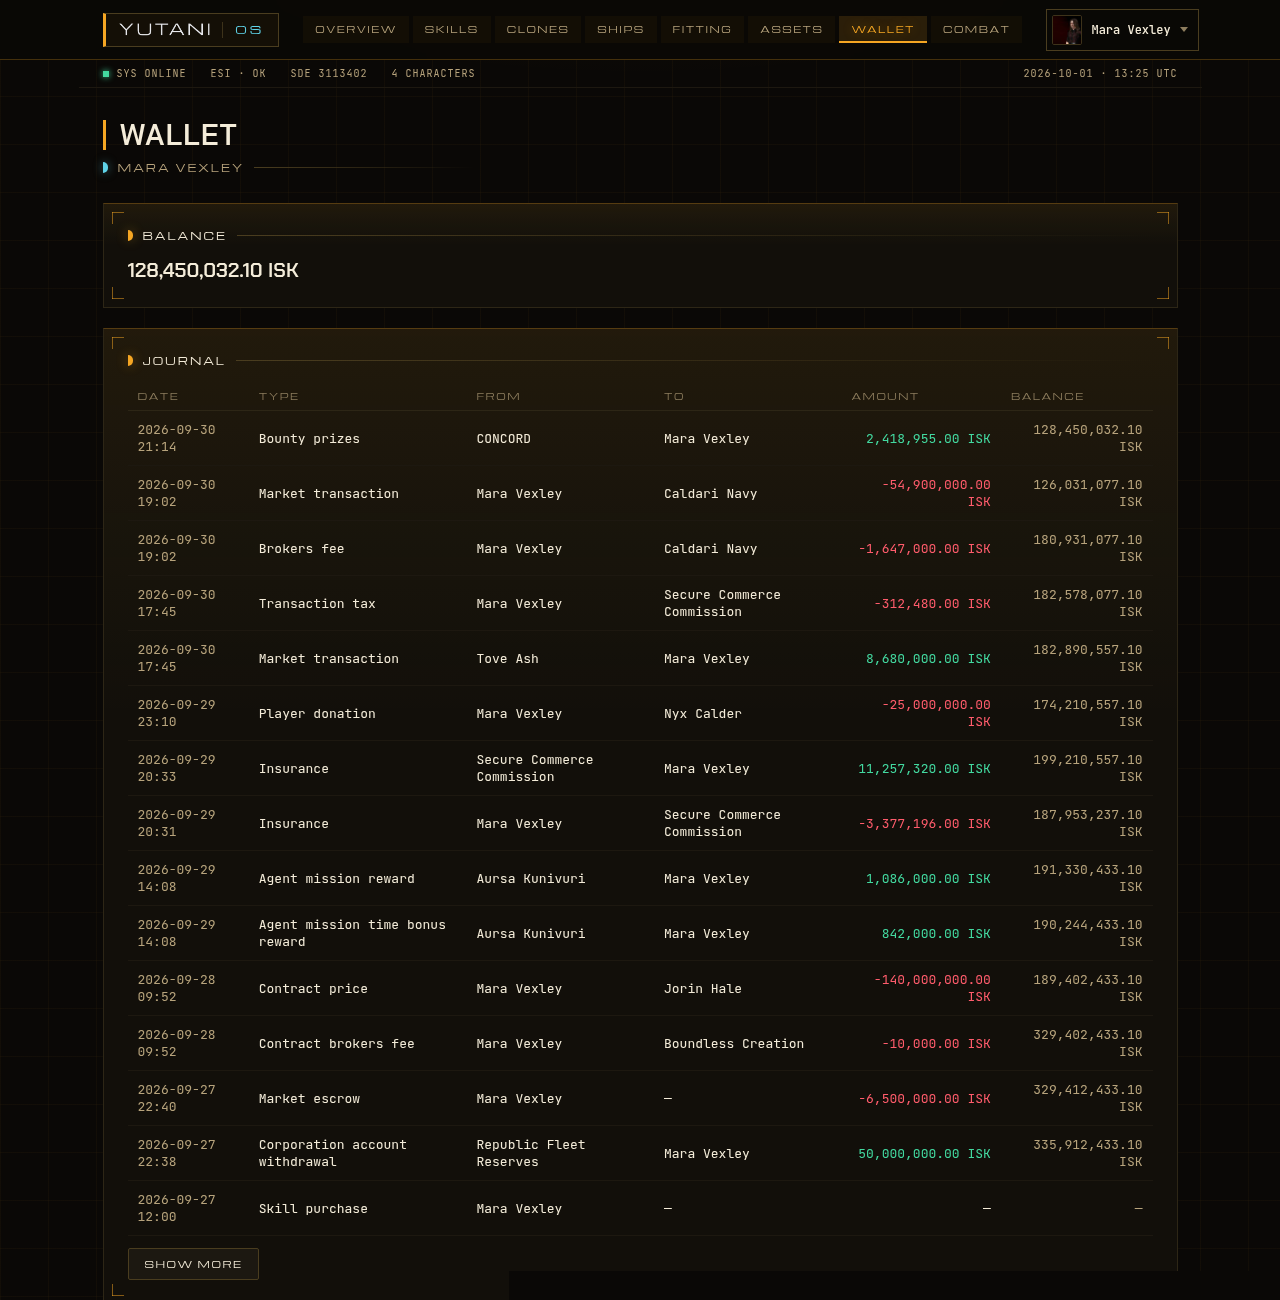
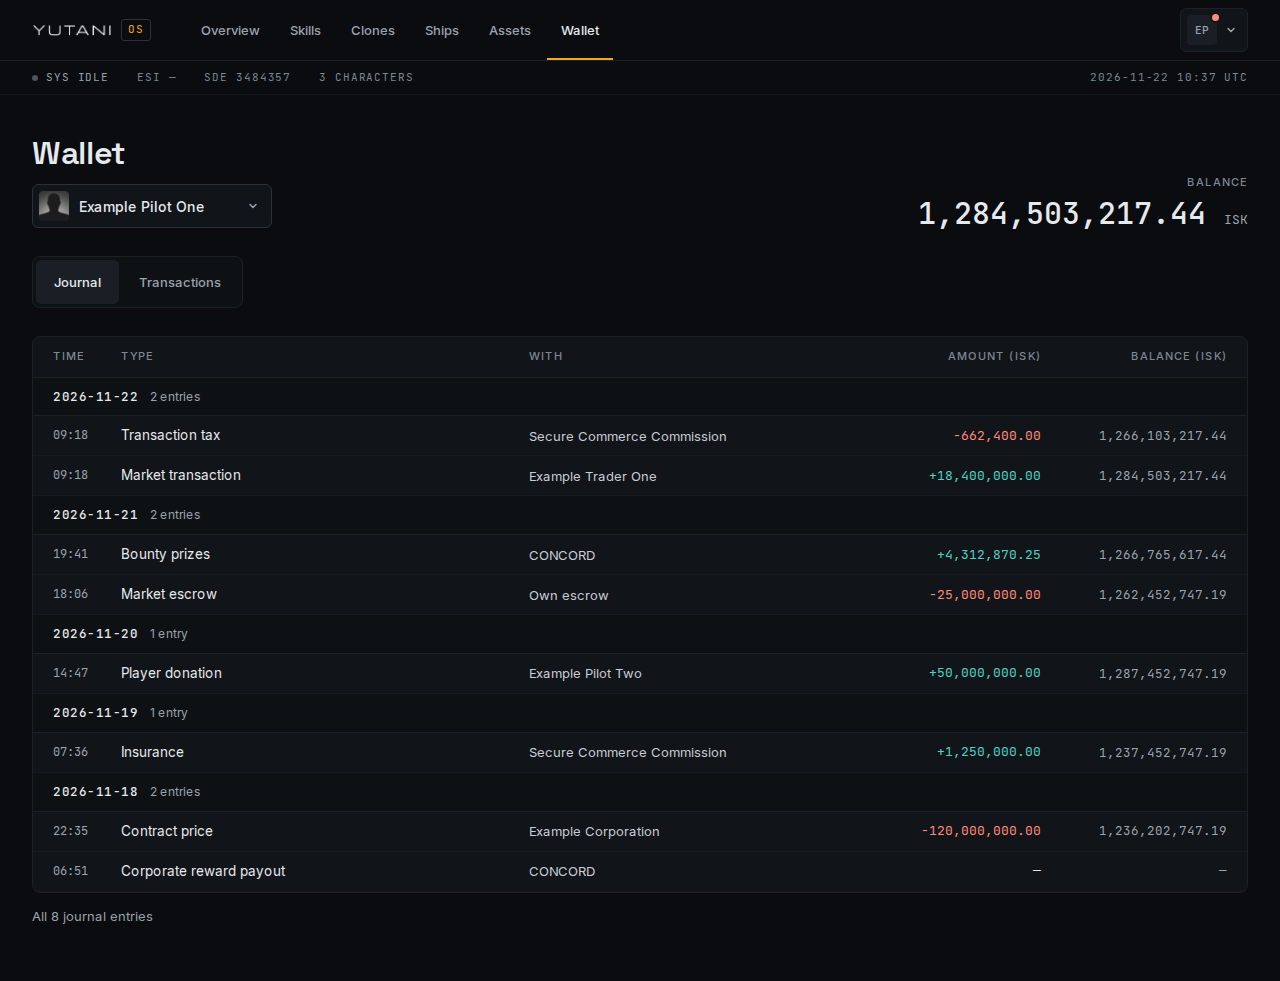
Docs and screenshots for Google sign-in, the app API and the Android app; app 0.1.3
Site screenshots retaken on the current design from invented characters (overview, phone
overview, skills, ships, fit sheet, assets, wallet, clones, settings with the signed-in
phones). Combat, killmail, skill plan and fitting designer are marked as predating it.
App screenshots are the off-screen renders of the contract fixtures.

Claude-Session: https://claude.ai/code/session_01NuihB5qwHmpLe88LtNtE6r

diff --git a/README.md b/README.md
@@ -4,7 +4,7 @@
 
 <br>
 
-**A self-hosted command centre for your EVE Online characters: skills, clones, ships, fitting, assets, wallet and combat, behind Google sign-in, in an amber-phosphor console.**
+**A self-hosted command centre for your EVE Online characters: skills, clones, ships, fitting, assets, wallet and combat, behind Google sign-in, in an amber-phosphor console. With a native Android app that keeps a full copy on the phone and works offline.**
 
 One Next.js app, one sync worker, one Postgres. The pages never call ESI. The worker keeps the database fresh and the pages read from it, so every screen is instant and nothing you click can hit a rate limit.
 
@@ -15,10 +15,11 @@ One Next.js app, one sync worker, one Postgres. The pages never call ESI. The wo
 [![Mantine](https://img.shields.io/badge/Mantine-9-339af0?logo=mantine&logoColor=white)](https://mantine.dev/)
 [![EVE SSO](https://img.shields.io/badge/EVE_SSO-PKCE-f5a623)](https://developers.eveonline.com/)
 [![ESI](https://img.shields.io/badge/ESI-2026--08--18-5fd3e8)](https://developers.eveonline.com/api-explorer)
-[![Tests](https://img.shields.io/badge/vitest-1%2C166_passing-43d9a0?logo=vitest&logoColor=white)](tests/)
+[![Tests](https://img.shields.io/badge/vitest-1%2C702_passing-43d9a0?logo=vitest&logoColor=white)](tests/)
 [![Docker](https://img.shields.io/badge/Docker-Compose_%2B_Traefik-2496ed?logo=docker&logoColor=white)](deploy/)
+[![Android](https://img.shields.io/badge/Android-Kotlin_Multiplatform-3ddc84?logo=android&logoColor=white)](android/)
 
-<img src="docs/screenshots/overview.png" alt="The Overview page: four character cards, two-up, each with wallet, location, current ship, the skill in training and total SP" width="900">
+<img src="docs/screenshots/overview.png" alt="The Overview page: a summary strip, then character cards two-up, each with wallet, current ship, sec-coloured location, the skill in training and total SP" width="900">
 
 *The Overview. Every authorised character on one screen: who is online, where they are, what they fly, what is training and for how long.*
 
@@ -41,6 +42,8 @@ Yutani OS adds your characters with EVE SSO, syncs them in the background and gi
 | 💰 | **Wallet** | Balance, journal and transactions, colour-coded. |
 | ⚔ | **Combat** | A private killboard: stats tiles, a twelve-month activity strip, top ships and systems, and every killmail back to the start of your history via zKillboard. |
 | ⚙ | **Settings** | Accounts, characters, tags, the static-data build, and a sync-status table that tells you exactly what ran, when, and why it failed. |
+
+There is also a native **[Android app](#-the-android-app)** showing the read-only screens from a copy kept on the phone.
 
 Everything sits behind one session cookie. You sign in with Google, and only the Google accounts on the allow-list get in; EVE SSO is then used from Settings to add each character.
 
@@ -68,10 +71,10 @@ Everything sits behind one session cookie. You sign in with Google, and only the
 - 👥 **Every character, grouped by account.** Main and alt pills, tags you define, a re-authorise badge the moment a token stops working.
 - 🟢 **Live where it matters.** Online dot, current system with its security status, the station or structure, the hull and its class.
 - 📈 **Training progress by SP, not by the clock.** The bar measures how far through the level the character is, so it is right even after a queue was paused.
-- 📱 **Works on a phone.** Under 760 px the top nav becomes a bottom bar and the cards go single-column.
+- 📱 **Works on a phone.** At phone width the navigation becomes a strip under the logo and the cards go single-column.
 
 <div align="center">
-<img src="docs/screenshots/overview-phone.png" alt="The Overview on a phone: single-column cards and a bottom navigation bar" width="320">
+<img src="docs/screenshots/overview-phone.png" alt="The Overview on a phone: the navigation strip under the logo, the summary cells two-up and single-column cards" width="320">
 </div>
 
 ---
@@ -92,7 +95,7 @@ Everything sits behind one session cookie. You sign in with Google, and only the
 <div align="center">
 <img src="docs/screenshots/skill-plan.png" alt="The skill plan editor: toolbar stats, the plan table with done, in-queue and planned rows, and the attributes panel with an optimal remap" width="900">
 
-*A plan. Entries, SP, time and finish date up top. Done, in-queue and planned rows with prerequisite and Alpha badges. The optimal remap on the right.*
+*(Screenshot from before the current design.)* *A plan. Entries, SP, time and finish date up top. Done, in-queue and planned rows with prerequisite and Alpha badges. The optimal remap on the right.*
 </div>
 
 - 📝 **EVEMon-style plans.** Up to 500 entries, prerequisites expanded automatically, Alpha-trainable levels badged, and a warning when another character on the account is already training.
@@ -130,7 +133,7 @@ Everything sits behind one session cookie. You sign in with Google, and only the
 <div align="center">
 <img src="docs/screenshots/fitting-editor.png" alt="The fitting designer: the slot rows with states and charges, the Fitting panel with CPU, powergrid, calibration and slot counts, Ship stats, the item browser and the drone bay" width="900">
 
-*The designer. Modules with states and charges on the left, live fitting totals and Ship stats on the right, the item browser filtered to what fits this hull.*
+*(Screenshot from before the current design.)* *The designer. Modules with states and charges on the left, live fitting totals and Ship stats on the right, the item browser filtered to what fits this hull.*
 </div>
 
 - ⚡ **The dogma engine runs in the browser.** One cached request fetches the attribute and effect tables once a day, types are fetched on demand, and every change recomputes instantly.
@@ -147,7 +150,7 @@ Everything sits behind one session cookie. You sign in with Google, and only the
 <div align="center">
 <img src="docs/screenshots/combat.png" alt="The Combat page: time filters, six stat tiles, the monthly activity strip, ships flown, ships lost and systems lists, and the killmail table" width="900">
 
-*The killboard. Kills above the line, losses below. Statistics cover the most recent 20,000 killmails per character.*
+*(Screenshot from before the current design.)* *The killboard. Kills above the line, losses below. Statistics cover the most recent 20,000 killmails per character.*
 </div>
 
 - 📅 **30 days, 90 days, a year or everything**, for one character or all of them.
@@ -158,7 +161,7 @@ Everything sits behind one session cookie. You sign in with Google, and only the
 <div align="center">
 <img src="docs/screenshots/killmail.png" alt="A killmail: the victim, the fit with destroyed and dropped columns and values per slot, and an Open in fitting designer button" width="900">
 
-*One killmail. Victim, fit with destroyed and dropped columns, attackers, and a button that opens the victim's fit in the designer.*
+*(Screenshot from before the current design.)* *One killmail. Victim, fit with destroyed and dropped columns, attackers, and a button that opens the victim's fit in the designer.*
 </div>
 
 ---
@@ -186,14 +189,15 @@ Everything sits behind one session cookie. You sign in with Google, and only the
 ## ⚙ Settings and the sync table
 
 <div align="center">
-<img src="docs/screenshots/settings.png" alt="The Settings page: accounts, characters with main/alt and re-authorise, tags, the static data build with table counts, and the sync status table with ok, running and error rows" width="900">
+<img src="docs/screenshots/settings.png" alt="The Settings page: accounts, characters with main/alt and re-authorise, tags, the static data build with table counts, the signed-in phones with a Revoke button each, and the sync status" width="900">
 
-*Accounts, characters, tags, the SDE build, and a sync table that names the job, the character, the row count and the error.*
+*Accounts, characters, tags, the SDE build, the phones signed in to the Android app, and a sync table that names the job, the character, the row count and the error.*
 </div>
 
 - 👤 **Accounts and characters.** Group characters under accounts, mark main and alt, re-authorise one when its token is rejected, remove one cleanly.
 - 🏷 **Tags** you define, shown as pills on the Overview.
 - 🗄 **Static data.** The imported SDE build, when CCP released it, when it was imported, and the table counts.
+- 📱 **Signed-in phones.** Every phone running the Android app, when it signed in and when it last synced, with a Revoke button that signs it out on its next request.
 - 🩺 **Sync status.** Every job's latest run per character with status, rows and the message. Partial imports show as amber warnings, not silent gaps.
 
 ---
@@ -201,7 +205,7 @@ Everything sits behind one session cookie. You sign in with Google, and only the
 ## 🔒 Who gets in
 
 <div align="center">
-<img src="docs/screenshots/login.png" alt="The login page: the Yutani OS lockup, a sign-in card, the Log in with EVE Online button and the not-allowed error line" width="700">
+<img src="docs/screenshots/login.png" alt="The login page: the Yutani OS lockup and a sign-in card with the Sign in with Google button" width="700">
 </div>
 
 - 🪪 **Google sign-in.** Authorization code with PKCE, state and a nonce; the ID token verified against Google's JWKS, issuer, audience and nonce checked, and the email must be verified.
@@ -230,6 +234,37 @@ Everything sits behind one session cookie. You sign in with Google, and only the
 - 📦 **`{ data, generatedAt }`**, errors as `{ error }` with 400, 401 or 404. The character is always in the path.
 - 🏷 **ETags that ignore the clock.** Every GET answers `If-None-Match` with `304`. A tag moves when the stored data does, not because a countdown ticked, so anything worked out against the clock also carries its raw timestamps and SP bounds for the app to recompute.
 - 🧾 **A contract in the repo.** [`api-fixtures/v1/`](api-fixtures/v1/) holds every response for an invented account and a [README](api-fixtures/v1/README.md) of the shapes. A test fails when a loader drifts from them.
+
+---
+
+## 📱 The Android app
+
+<div align="center">
+<img src="docs/screenshots/android/overview.png" alt="The Android app's Overview: the navigation strip, a status line reading Synced 5 m ago, the summary cells and a character card with its training bar" width="260">
+<img src="docs/screenshots/android/skills-training.png" alt="The Android app's Training tab: the queue with a live countdown, level blocks and a progress bar on the skill in training" width="260">
+<img src="docs/screenshots/android/ship-detail.png" alt="The Android app's ship detail: hull render, fit name, location, estimated value, then DPS, EHP, speed and capacitor cells" width="260">
+
+*The app, drawn from the invented characters in the contract fixtures.*
+</div>
+
+A native app in [`android/`](android/) (Kotlin Multiplatform, Compose) with the site's look and its read-only screens: Overview, Skills, Clones, Ships and ship detail, Assets and Wallet.
+
+- 📥 **The phone holds everything.** After sign-in it downloads every screen for every character, including ones never opened. Screens open from that copy at once and work with no connection.
+- 🔄 **Only what changed.** A sync is one small request for the list of tags, then one request per resource whose tag differs. With nothing new that is a single round trip.
+- ⏱ **Countdowns stay true.** Anything worked out against the clock is recomputed on the phone from raw times, so a day-old copy still counts down correctly.
+- 🕐 **When it syncs.** On opening, on pull-down, and about hourly in the background. A strip under the navigation says "Synced 5 m ago" or "Offline · as of 2 h ago".
+- 👆 **Swipe between sections**, tap the strip to jump, long-press an item for its description.
+- 🧮 **No game maths on the phone.** Fit stats come from the site as finished values; the one exception is the drone selector's sum.
+- 🔑 **Google sign-in**, the token encrypted with a key in the Android Keystore, revocable from Settings on the site.
+- 🧪 **Checked without a device.** Every screen renders off screen from the contract fixtures (`./gradlew :shared:jvmTest -Pshots=<dir>`).
+
+Building, signing, the one-off Android client in Google Cloud and installing are in [android/README.md](android/README.md).
+
+<div align="center">
+<img src="docs/screenshots/android/ships.png" alt="The Android app's Ships screen: Fitted ships and Saved fits tabs, and a ship card with DPS, EHP, speed and capacitor cells and CPU and powergrid bars" width="260">
+<img src="docs/screenshots/android/assets.png" alt="The Android app's Assets screen: a name filter, item and location counts, and a station opened to a ship with its fitted modules" width="260">
+<img src="docs/screenshots/android/wallet.png" alt="The Android app's Wallet: the balance, Journal and Transactions tabs, and entries grouped by day with money in teal and money out coral" width="260">
+</div>
 
 ---
 
@@ -339,7 +374,9 @@ Yutani OS is the sister project of [Yutani](https://github.com/dc9090-web/yutani
 npm test
 ```
 
-1,699 vitest tests across 183 files cover the SSO flow, the app API and its contract fixtures, the ESI client's rate limiting and breaker, the SDE importer, the dogma engine against real fits, EFT parsing, the skill timeline and remap optimiser, the killmail pipeline and the React components. The `tests/db` suite needs a Postgres on port 5432; `compose.dev.yml` provides one.
+1,702 vitest tests across 183 files cover the SSO flow, the app API and its contract fixtures, the ESI client's rate limiting and breaker, the SDE importer, the dogma engine against real fits, EFT parsing, the skill timeline and remap optimiser, the killmail pipeline and the React components. The `tests/db` suite needs a Postgres on port 5432; `compose.dev.yml` provides one.
+
+The Android app has its own suite (`cd android && ./gradlew :shared:jvmTest`, 87 tests): it decodes the same contract fixtures, tests the sync engine against a pretend site, and swipes through the real app shell.
 
 ---
 

diff --git a/docs/superpowers/specs/2026-11-22-android-app-design.md b/docs/superpowers/specs/2026-11-22-android-app-design.md
@@ -1,8 +1,27 @@
 # Yutani OS for Android — design
 
-Date: 2026-11-22. Status: approved by the owner on 2026-11-22. Phase 1 is live. Amended the same day
-with "Offline first" (section 6) at the owner's request; where section 6 disagrees with an earlier
-section, section 6 wins.
+Date: 2026-11-22. Status: approved by the owner on 2026-11-22 and amended the same day with
+"Offline first" (section 6); where section 6 disagrees with an earlier section, section 6 wins.
+
+**Built and live (2026-11-22):** phases 1 to 4. Google sign-in on the site, the read API with phone
+sessions, and the app with every read-only screen, running on the owner's phone. Phases 5 and 6 are
+not started.
+
+**Where the build departed from this document:**
+
+- The Android build plugin now requires a multiplatform library module beside a plain application
+  module, so the project is `shared` + `androidApp` + `desktopApp`, not one `composeApp`.
+- No view models: with every screen reading a stored copy, a screen collects its resource directly
+  (`resource(path, serializer)`), and the store and sync engine carry the tests.
+- No DataStore: the small settings live in the store's own index file.
+- The machine had no `sudo` and no access to KVM, so there is no emulator and no virtual display.
+  Screens are drawn off screen from the contract fixtures, and the first run on Android was on the
+  owner's phone. The Kotlin agent skills, the Android CLI and the Hot Reload server in section 5 were
+  not installed.
+- The six sections sit in a pager, so a swipe flips between them (asked for by the owner after the
+  first build).
+- `/api/v1/characters/{id}/wallet` with no `kind` returns the balance alone; ship detail returns
+  `{ kind: "ok", view }` or `{ kind: "error", title }`.
 
 ## Intent
 

diff --git a/android/README.md b/android/README.md
@@ -80,13 +80,23 @@ export JAVA_HOME=<jdk 21> ANDROID_HOME=<Android SDK>
 
 Copy the APK to the phone and open it (Android asks once to allow installs from that source), or
 with the phone on USB: `adb install -r androidApp-release.apk`. An update is the same step with a
-newer APK; raise `versionCode` in `androidApp/build.gradle.kts` for each one.
+newer APK; raise `versionCode` in `androidApp/build.gradle.kts` for each one. An update keeps the
+sign-in and the copy of the data.
 
 ## Signing out and lost phones
 
 "Sign out" in the app (the button with your initials) removes the phone's token and its copy of
 the data. Every signed-in phone is also listed on the site under Settings › Signed-in phones, with
 a Revoke button; a revoked phone is signed out the next time it reaches the site.
+
+## Using it
+
+- Swipe left or right to move between Overview, Skills, Clones, Ships, Assets and Wallet, or tap a
+  section in the strip under the logo.
+- The dropdown under a page title picks the character. The choice is remembered.
+- Long-press an item, module, implant or skill for its description.
+- Pull down on any screen to sync now. "Sync now" and "Sign out" are under the button with your initials.
+- On a ship, the drone selector changes the DPS figures on the phone, with no connection needed.
 
 ## What syncs when
 

diff --git a/deploy/README.md b/deploy/README.md
@@ -56,7 +56,7 @@ the app from starting. The Google side is a one-off in the Google Cloud console:
    logged as `[auth] google account not allowed: <address>` in `docker logs eve-app`, which shows the
    address to add.
 
-Phase 2 (the Android app) adds an Android OAuth client to this same project; nothing here changes.
+The Android app adds an Android OAuth client to this same project (package name and the signing key's SHA-1); nothing here changes. The steps are in [android/README.md](../android/README.md).
 
 ## 2. Install
 
